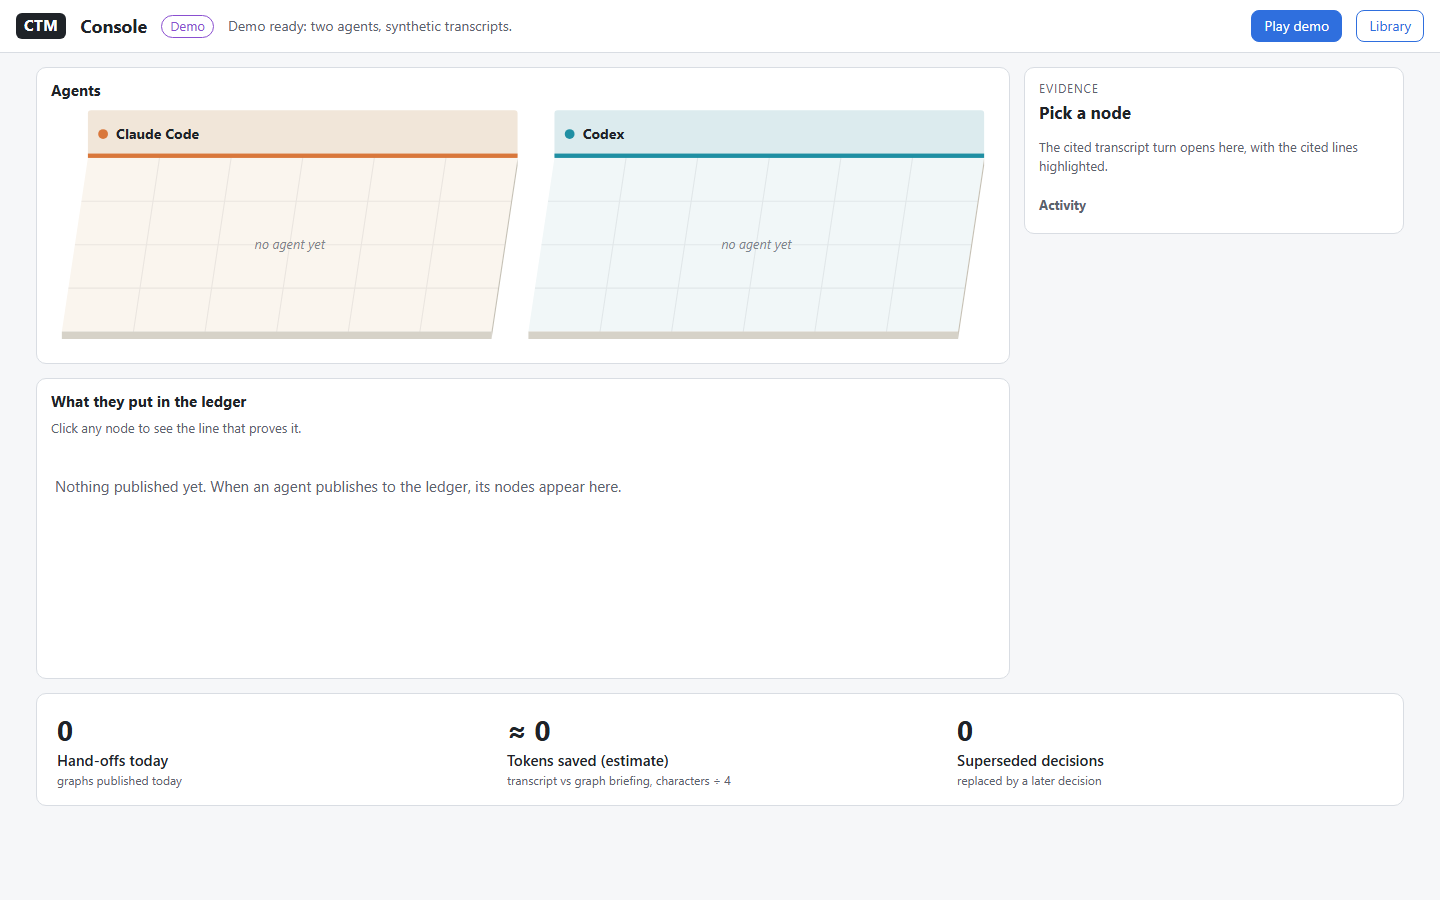
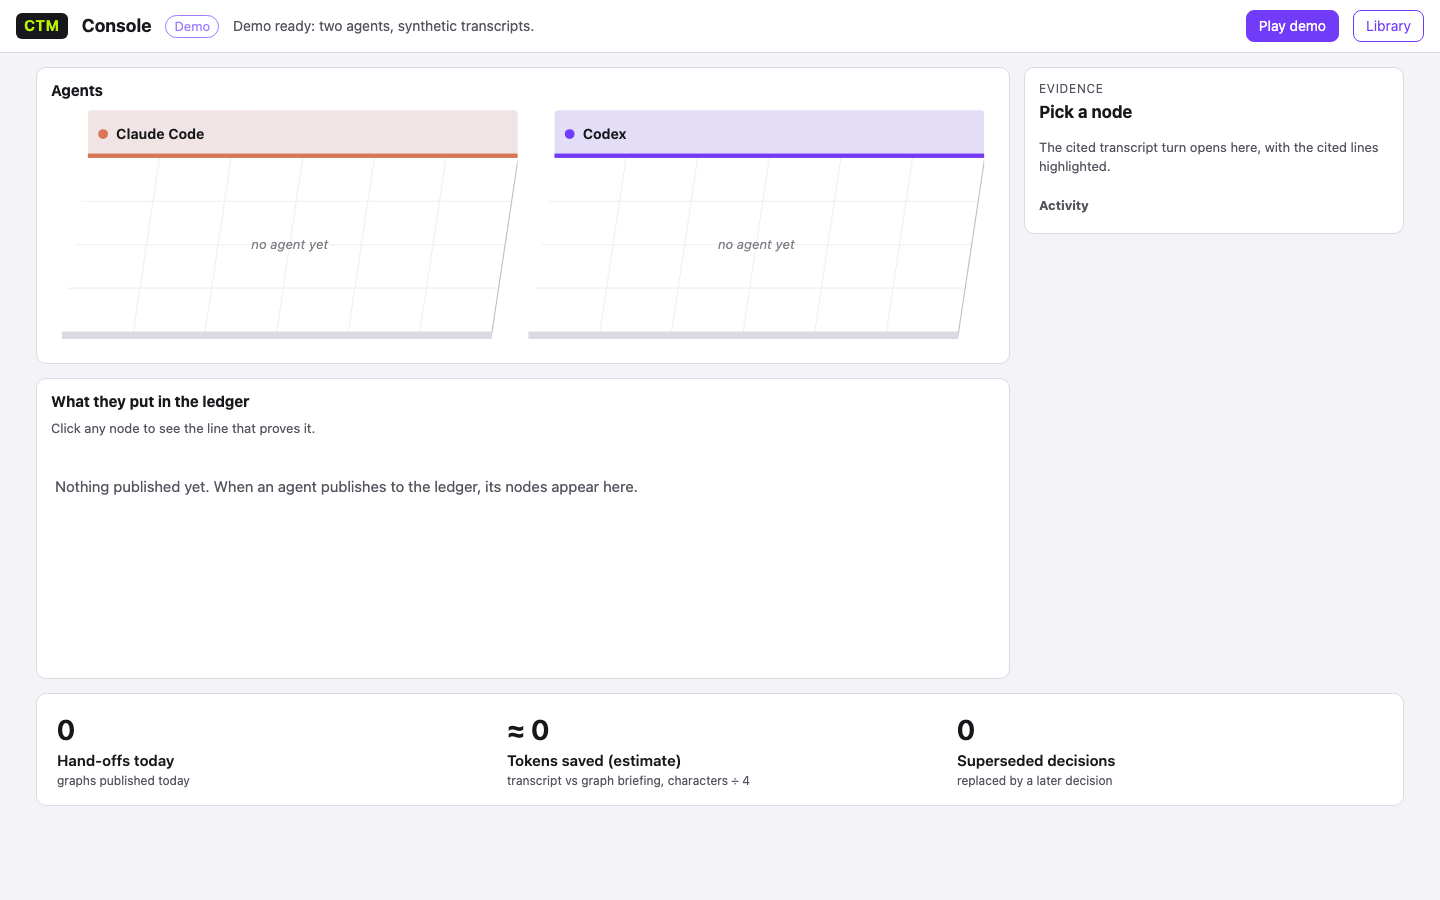
U4: brand tokens, vendor pixel sprites, ledger marks and agent turns in the console
- The console loads docs/brand/tokens.css (served at /console/tokens.css, one source)
  and takes every colour and the type from --ctm-* variables.
- Office agents are 16 x 20 pixel sprites: Clawd for Claude Code, the purple pet for
  Codex, a neutral bot for anything else. Working, waiting and idle poses are kept.
- Node marks come from the graph's quotedNodeIds and inferredNodeIds (card G7), shown
  as a word beside the kind; a graph without the lists stays unmarked.
- Evidence labels a Codex agent turn (card I3) 'Agent /root/worker to /root', with the
  paths escaped on one line.
- The demo recording is rebuilt by the real store and now carries the marks.

diff --git a/public/console/console.css b/public/console/console.css
@@ -1,17 +1,20 @@
 :root {
-  --bg: #f6f7f9;
-  --panel: #ffffff;
-  --ink: #1f2328;
-  --muted: #5b636e;
-  --line: #d9dde3;
-  --accent: #2f6fde;
-  --node: #eef1f5;
-  --node-ink: #1f2328;
-  --quoted: #d8f0df;
-  --inferred: #fbe9c8;
-  --cited: #fff1a8;
-  --write: #2f6fde;
-  --read: #8a4fd0;
+  /* Card U4: every colour and the type come from the brand tokens (docs/brand/tokens.css). */
+  --bg: var(--ctm-bg);
+  --panel: var(--ctm-surface);
+  --ink: var(--ctm-text);
+  --muted: var(--ctm-text-2);
+  --line: var(--ctm-line);
+  --accent: var(--ctm-violet);
+  --node: var(--ctm-paper);
+  --node-ink: var(--ctm-text);
+  --quoted: var(--ctm-quoted-fill);
+  --inferred: var(--ctm-inferred-fill);
+  --cited: color-mix(in srgb, var(--ctm-lime) 40%, var(--ctm-surface));
+  --cited-edge: var(--ctm-lime);
+  --write: var(--ctm-violet);
+  --read: var(--ctm-violet-soft);
+  --edge: var(--ctm-line);
   --radius: 10px;
   color-scheme: light;
 }
@@ -22,7 +25,7 @@ body {
   margin: 0;
   background: var(--bg);
   color: var(--ink);
-  font: 15px/1.45 system-ui, -apple-system, "Segoe UI", Roboto, sans-serif;
+  font: 15px/1.45 var(--ctm-font-sans);
 }
 
 h1, h2, h3, p { margin: 0; }
@@ -40,8 +43,8 @@ h1, h2, h3, p { margin: 0; }
 .brand {
   padding: 2px 8px;
   border-radius: 6px;
-  background: var(--ink);
-  color: #fff;
+  background: var(--ctm-charcoal);
+  color: var(--ctm-lime);
   font-weight: 700;
   letter-spacing: 0.04em;
 }
@@ -66,13 +69,14 @@ h1, h2, h3, p { margin: 0; }
   padding: 5px 12px;
   border-radius: 8px;
   border: 1px solid var(--accent);
-  background: var(--accent);
-  color: #fff;
+  background: var(--ctm-button-fill);
+  color: var(--ctm-button-text);
   cursor: pointer;
   text-decoration: none;
 }
 
-.bar-link { background: transparent; color: var(--accent); }
+.bar-link { background: transparent; color: var(--ctm-link); }
+.replay:hover { background: var(--ctm-button-fill-hover); }
 
 .console {
   display: grid;
@@ -107,7 +111,7 @@ h1, h2, h3, p { margin: 0; }
 
 .brain-edges { position: absolute; inset: 0 auto auto 0; pointer-events: none; overflow: visible; }
 
-.edge { fill: none; stroke: #b6bdc8; stroke-width: 1.5; }
+.edge { fill: none; stroke: var(--edge); stroke-width: 1.5; }
 .edge-supersedes { stroke-dasharray: 2 3; }
 .edge-link { stroke: var(--read); stroke-dasharray: 6 4; opacity: 0.6; }
 
@@ -135,7 +139,7 @@ h1, h2, h3, p { margin: 0; }
   font: inherit;
   padding: 7px 10px;
   border: 1px solid var(--line);
-  border-left: 4px solid #9aa3af;
+  border-left: 4px solid var(--line);
   border-radius: 8px;
   background: var(--node);
   color: var(--node-ink);
@@ -145,9 +149,12 @@ h1, h2, h3, p { margin: 0; }
 .node:hover { border-color: var(--accent); }
 .node:focus-visible { outline: 3px solid var(--accent); outline-offset: 2px; }
 .node.is-selected { border-color: var(--accent); box-shadow: 0 0 0 2px var(--accent); }
-.node.mark-quoted { background: var(--quoted); border-left-color: #2e8b57; }
-.node.mark-inferred { background: var(--inferred); border-left-color: #c98a12; }
+.node.mark-quoted { background: var(--quoted); border-left-color: var(--ctm-quoted); }
+.node.mark-inferred { background: var(--inferred); border-left-color: var(--ctm-inferred); }
 
+.node-mark { font-weight: 700; }
+.mark-quoted .node-mark { color: var(--ctm-quoted); }
+.mark-inferred .node-mark { color: var(--ctm-inferred); }
 .node-kind { font-size: 11px; text-transform: uppercase; letter-spacing: 0.06em; color: var(--muted); }
 .node-label { font-size: 14px; }
 .node-meta { font-size: 12px; color: var(--muted); }
@@ -170,10 +177,10 @@ h1, h2, h3, p { margin: 0; }
 
 .turns { list-style: none; margin: 0 0 12px; padding: 0; display: grid; gap: 8px; }
 .turn { border: 1px solid var(--line); border-radius: 8px; padding: 8px 10px; }
-.turn.is-cited { border-color: #d7b600; }
+.turn.is-cited { border-color: var(--cited-edge); }
 .turn-head { display: flex; gap: 8px; font-size: 12px; color: var(--muted); margin-bottom: 4px; }
-.turn-line { font-family: ui-monospace, Consolas, monospace; }
-.turn-cited { color: #7a6500; font-weight: 600; }
+.turn-line { font-family: var(--ctm-font-mono); }
+.turn-cited { color: var(--ink); font-weight: 600; }
 .turn-text { display: block; white-space: pre-wrap; overflow-wrap: anywhere; font-size: 14px; }
 mark.turn-text { background: var(--cited); color: var(--ink); border-radius: 3px; padding: 1px 2px; }
 

diff --git a/public/console/office.css b/public/console/office.css
@@ -1,18 +1,22 @@
 /* CTM Console office. Theme via the custom properties on .office-svg. */
+/* Card U4: brand tokens for the floor and text; each room keeps its sprite's colour. */
 .office-svg {
-  --office-ink: #1f2328; --office-muted: #57606a; --office-paper: #fff; --office-chip: #1f2328;
-  --office-edge: #d6d2c8; --office-edge-side: #c6c1b5; --office-grid: rgba(31, 35, 40, 0.07);
-  --office-skin: #f6dcc3; --office-dark: #3b4048; --office-laptop: #3b4048; --office-desk: #a4825f;
-  --claude-accent: #d9773b; --claude-ink: #9a4615; --claude-floor: #faf5ee; --claude-wall: #f1e6d9;
-  --codex-accent: #1f8fa3; --codex-ink: #0f6474; --codex-floor: #f1f7f8; --codex-wall: #dcebee;
+  --office-ink: var(--ctm-text); --office-muted: var(--ctm-text-2); --office-paper: var(--ctm-surface);
+  --office-chip: var(--ctm-charcoal); --office-edge: var(--ctm-line);
+  --office-edge-side: color-mix(in srgb, var(--ctm-line) 80%, var(--ctm-text-2));
+  --office-grid: color-mix(in srgb, var(--ctm-text) 7%, transparent);
+  --office-laptop: var(--ctm-charcoal); --office-desk: color-mix(in srgb, var(--ctm-text-2) 55%, var(--ctm-surface));
+  --claude-accent: #d77757; --claude-ink: #9a4615;
+  --codex-accent: var(--ctm-violet); --codex-ink: var(--ctm-link-hover);
   display: block; width: 100%; height: auto; overflow: visible;
-  font-family: system-ui, -apple-system, "Segoe UI", sans-serif;
+  font-family: var(--ctm-font-sans);
 }
-.office-room-claude { --accent: var(--claude-accent); --accent-ink: var(--claude-ink); --floor: var(--claude-floor); --wall: var(--claude-wall); }
-.office-room-codex { --accent: var(--codex-accent); --accent-ink: var(--codex-ink); --floor: var(--codex-floor); --wall: var(--codex-wall); }
+.office-room-claude { --accent: var(--claude-accent); --accent-ink: var(--claude-ink); }
+.office-room-codex { --accent: var(--codex-accent); --accent-ink: var(--codex-ink); }
+.office-room { --floor: var(--ctm-surface); --wall: color-mix(in srgb, var(--accent) 12%, var(--ctm-paper)); }
 
 .office-wall { fill: var(--wall); }
-.office-trim, .office-dot, .oa-coat, .oa-logo { fill: var(--accent); }
+.office-trim, .office-dot, .oa-logo { fill: var(--accent); }
 .office-floor { fill: var(--floor); }
 .office-edge { fill: var(--office-edge); }
 .office-edge-side { fill: var(--office-edge-side); }
@@ -25,13 +29,8 @@
 .office-more rect { fill: var(--office-chip); }
 .office-more text { fill: var(--office-paper); font-size: 11px; font-weight: 650; }
 
-.oa-shadow { fill: rgba(31, 35, 40, 0.12); }
-.oa-leg, .oa-desk-leg { stroke: var(--office-dark); stroke-width: 3; stroke-linecap: round; }
-.oa-page { fill: var(--office-paper); }
-.oa-page-line { stroke: var(--accent-ink); }
-.oa-head { fill: var(--office-skin); stroke: var(--accent-ink); }
-.oa-eye { stroke: var(--office-ink); stroke-width: 1.6; stroke-linecap: round; }
-.oa-glow { fill: var(--accent); opacity: 0; }
+.oa-shadow { fill: color-mix(in srgb, var(--ctm-text) 12%, transparent); }
+.oa-desk-leg { stroke: var(--office-dark); stroke-width: 3; stroke-linecap: round; }
 .oa-halo { fill: var(--accent); opacity: 0.25; }
 .oa-laptop { fill: var(--office-laptop); }
 .oa-desk-top { fill: var(--office-desk); }
@@ -42,7 +41,6 @@
 .oa-ring { fill: none; stroke: var(--accent); stroke-width: 2.5; opacity: 0; }
 
 .office-agent:not(.state-working) .oa-desk, .office-agent:not(.state-waiting) .oa-bubble { display: none; }
-.state-working .oa-glow { opacity: 0.18; }
 .state-working .oa-state, .state-waiting .oa-state { fill: var(--accent-ink); font-weight: 650; }
 .state-waiting .oa-state { font-style: italic; }
 .state-idle .oa-body { opacity: 0.45; }
@@ -69,4 +67,4 @@
 @keyframes oa-enter { from { opacity: 0; transform: translateY(8px); } }
 @keyframes oa-ring { from { transform: scale(0.6); opacity: 1; } to { transform: scale(1.35); opacity: 0; } }
 
-/* The console is light only for v0; a dark theme belongs with the brand card (U2). */
+

diff --git a/public/console/index.html b/public/console/index.html
@@ -4,6 +4,7 @@
   <meta charset="utf-8">
   <meta name="viewport" content="width=device-width, initial-scale=1">
   <title>CTM Console</title>
+  <link rel="stylesheet" href="/console/tokens.css">
   <link rel="stylesheet" href="/console/console.css">
   <link rel="stylesheet" href="/console/office.css">
   <script type="module" src="/console/console.mjs"></script>
